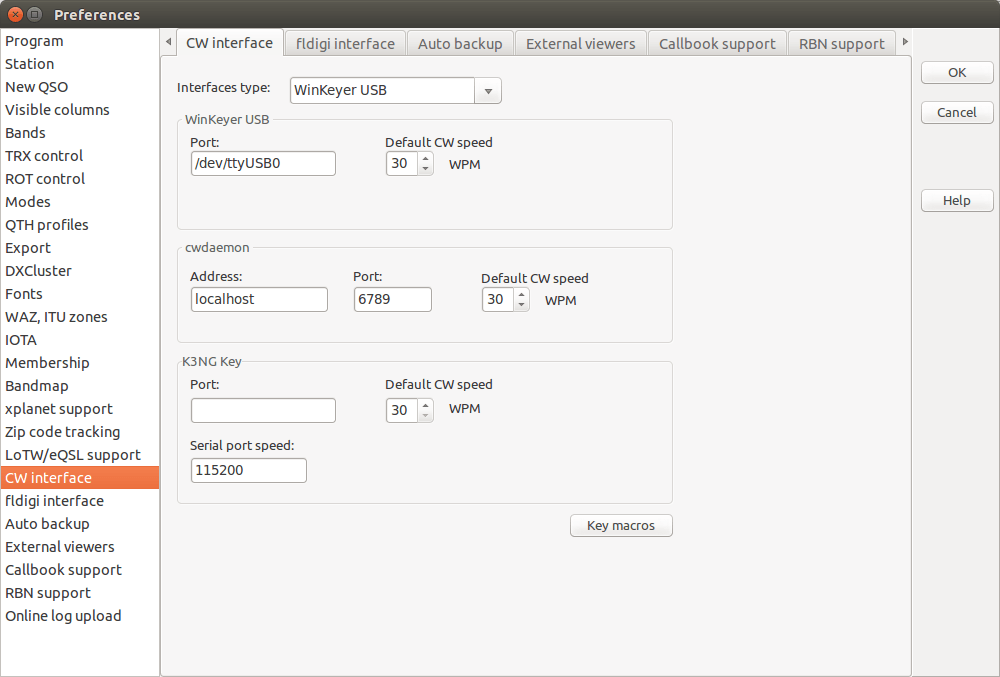
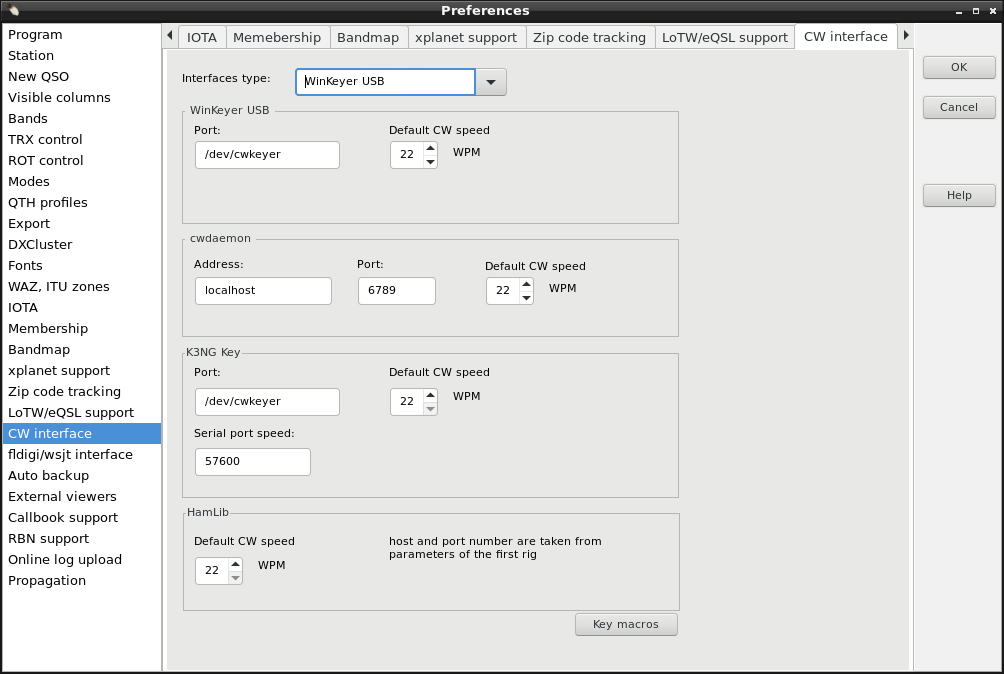
Merged from master. Some help files fixed. Version number now 2.2.0(100)

diff --git a/help/cwh.html b/help/cwh.html
@@ -1,0 +1,63 @@
+<!DOCTYPE HTML PUBLIC "-//W3C//DTD HTML 4.01 Transitional//EN" "http://www.w3.org/TR/html4/loose.dtd">
+<html lang="en-us">
+<head>
+    <title>CQRLOG - cwdaemon setup</title></head>
+<body>
+<table border="0" cellpadding="5" cellspacing="2" width="100%">
+    <tbody>
+    <tr>
+        <td valign="top"><img src="img/exc.png"></td>
+        <td align="justify" bgcolor="ffffcc" valign="top"><strong>
+            <font color="red">WARNING!</font></strong>
+            Backup your data often! BACKUP your log directory at the end of EVERY session!
+            All that you need to backup and store in a safe place is the log database directory
+            located in the ~/.config/cqrlog/database folder, or you can enable the autobackup function
+            in Preferences. This autobackup function creates an ADIF file with a backup of your log.
+        </td>
+    </tr>
+    </tbody>
+</table>
+<table style="text-align: left; width: 100%;" border="0" cellpadding="2" cellspacing="2">
+    <tbody>
+    <tr>
+        <td align="left" width="33%">&nbsp;&lt;<a href="h1.html"> Prev</a></td>
+        <td align="center" width="33%">[<a href="index.html#aa">Menu</a>]</td>
+        <td align="right" width="33%"><a href="h1.html#ch2">Next </a>&gt;</td>
+    </tr>
+    </tbody>
+</table>
+<br>
+<div style="text-align: left;"><strong>CQRLOG for LINUX by OK7AN &amp; OK1RR</strong></div>
+<p align="center"><img src="img/line.png"></p>
+<strong>HamLib CW setup</strong><br><br>
+
+CW through HamLib does not need any special settings.
+</br>It uses same TCP port as your <strong>Radio one</strong>'s CAT control.
+Only setting is default keying speed.
+</p><p>If you are not sure can your rig send CW via rigctld (HamLib) you may check it by opening console
+while cqrlog is running and typing command:</br>
+<strong>telnet localhost 4532</strong>
+</br>
+After getting connected type command:
+<strong>\dump_caps</strong>
+</br>
+You get several lines, one with text: <strong><pre>Can send Morse:	Y</pre></strong>
+</br>As you may guess Y means rig can send CW, N means it can not.
+</p><p>
+Commands used for HamLib CW are:
+<li>L KEYSPD NN  (where NN is the keying speed in wpm)</li>
+<li>b TEXT       (TEXT is the text to be sent as CW)</li>
+</p>
+<p align="center"><img src="img/line.png"></p>
+<table style="text-align: left; width: 100%;" border="0" cellpadding="2" cellspacing="2">
+    <tbody>
+    <tr>
+        <td align="left" width="33%">&nbsp;&lt;<a href="h1.html"> Prev</a></td>
+        <td align="center" width="33%">[<a href="index.html#aa">Menu</a>]</td>
+        <td align="right" width="33%"><a href="h1.html#ch2">Next </a>&gt;</td>
+    </tr>
+    </tbody>
+</table>
+<br>
+</body>
+</html>

diff --git a/src/changelog.html b/src/changelog.html
@@ -1,6 +1,26 @@
-<strong>New user?</strong> Please look to <strong>Help -> Keys and shortcuts</strong> to find out how to operate CQRLOG from keyboard.
+<strong>New user?</strong> Please look at <strong>Help -> Keys and shortcuts</strong> to find out how to operate CQRLOG from keyboard.
 <hr>
 <br>
+<strong>CQRLOG 2.2.0 (2017-12-30)</strong><br>
+<ul style="list-style: square;text-align:left; color: blue;">
+  <li>wsjt remote mode improvements (Saku, OH1KH)</li>
+  <li>CQ-monitor now remembers showing state (Saku, OH1KH)</li>
+  <li>"My Alert" is now compared oppsite way: This should fit also compound callsign XX/YOURCALL or YOURCALL/XX (Saku, OH1KH)</li>
+  <li>CQ-monitor:  Country names (cut to length 15) are now displayed instead of callsign prefixes. (Saku, OH1KH)</li>
+  <li>"Show only active band" checkbox addec to Band map filter for quick access. (Saku, OH1KH)</li>
+  <li>"Re/Set" button added to Export "Choose fields to export" dialog for set/reset all check boxes in one go. (Saku, OH1KH)</li>
+  <li>a lot of CQ monitor improvements (Saku, OH1KH)</li>
+  <li>remote wsjt: Short cut key Ctrl+J (Saku, OH1KH)</li>
+  <li>help files updated (Saku, OH1KH)</li>
+  <li>Voice keyer works now also with FM and AM modes and also from CWkeys windows. (Saku, OH1KH)</li>
+  <li>QSO in QSO list window can be sorted in ascending date/time order (oldes QSO first). (Jörg, DL8DTL)</li>
+  <li>CQRLOG should work correcly on HiDPI monitors</li>
+</ul>
+<ul style="list-style: square;text-align:left; color: red;">
+  <li>630M definition was missing in some functions (Saku, OH1KH)</li>
+  <li>ADIF upload didn't work when name or QTH were too long</li>
+</ul>
+<br><br>
 <strong>CQRLOG 2.1.0 (2017-08-06)</strong><br>
 <ul style="list-style: square;text-align:left; color: blue;">
   <li>wsjt remote mode improvements (Saku, OH1KH)</li>

diff --git a/help/h1.html b/help/h1.html
@@ -28,7 +28,7 @@
     </tbody>
 </table>
 <br>
-<div style="text-align: left;"><strong>CQRLOG for LINUX by OK2CQR &amp; OK1RR</strong></div>
+<div style="text-align: left;"><strong>CQRLOG for LINUX by OK7AN &amp; OK1RR</strong></div>
 <p align=center><img src=img/line.png></p>
 <h2><strong>Preferences</strong></h2>
 <div align=justify>The first step you need is to set up your log preferences. From the
@@ -470,8 +470,8 @@ There are no known dependencies issues.<br><br>
     info messages.<br><br>
     <a name=ch1><h2><strong>CW interface</strong></h2></a>
     <img src="img/h95.png"><br><br>
-    Choose your preferred CW interface. There are 4 options: None, WinKeyer USB,
-    cwdaemon and K3NG keyer. We strongly recommend Winkey USB by Steve Elliot, K1EL,
+    Choose your preferred CW interface. There are 5 options: None, WinKeyer USB,
+    cwdaemon, K3NG keyer and HamLib. We strongly recommend Winkey USB by Steve Elliot, K1EL,
     which provides 'all in one' keying, including one of most advanced paddle keyers available.
     cwdaemon should be seen as a backup option with many limitations, which may need
     a custom linux kernel to avoid sloppy CW at speeds above 25 WPM. If cwdaemon is used,
@@ -482,6 +482,7 @@ There are no known dependencies issues.<br><br>
         <li><a href=wkusb.html><strong>Winkey USB</strong></a></li>
         <li><a href="http://blog.radioartisan.com/arduino-cw-keyer/" target="_blank">
             <strong>K3NG</strong></a></li>
+        <li><a href=cwh.html><strong>HamLib</strong></a>
     </ul>
     For further steps (CW messages edit, keyboard keyer operation) - click
     <a href=h26.html><strong>here</strong></a>.

diff --git a/help/h28.html b/help/h28.html
@@ -1,7 +1,7 @@
 <!DOCTYPE HTML PUBLIC "-//W3C//DTD HTML 4.01 Transitional//EN">
 <html>
 <head>
-    <title>CQRLOG - Supported Radio Types</title>
+    <title>CQRLOG - Voice messages</title>
 </head>
 <body>
 <table border="0" cellpadding="5" cellspacing="2" width="100%">
@@ -29,7 +29,7 @@
     </tbody>
 </table>
 <br>
-<div style="text-align: left;"><strong>CQRLOG for LINUX by OK2CQR &amp; OK1RR</strong></div>
+<div style="text-align: left;"><strong>CQRLOG for LINUX by OK7AN &amp; OK1RR</strong></div>
 <p align=center><img src=img/line.png></p>
 
 <h2><strong>Voice messages</strong></h2><p>

diff --git a/help/remi.html b/help/remi.html
@@ -1,7 +1,7 @@
 <!DOCTYPE HTML PUBLIC "-//W3C//DTD HTML 4.01 Transitional//EN">
 <html>
 <head>
-    <title>CQRLOG - Supported Radio Types</title>
+    <title>CQRLOG - Reminder</title>
 </head>
 <body>
 <table border="0" cellpadding="5" cellspacing="2" width="100%">
@@ -28,7 +28,7 @@
     </tbody>
 </table>
 <br>
-<div style="text-align: left;"><strong>CQRLOG for LINUX by OK2CQR &amp; OK1RR</strong></div>
+<div style="text-align: left;"><strong>CQRLOG for LINUX by OK7AN &amp; OK1RR</strong></div>
 <p align=center><img src=img/line.png></p>
 
 <h3 ><a name="m3"></a>Reminder</h3>

diff --git a/help/wsjt.html b/help/wsjt.html
@@ -1,7 +1,7 @@
 <!DOCTYPE HTML PUBLIC "-//W3C//DTD HTML 4.01 Transitional//EN">
 <html>
 <head>
-    <title>CQRLOG - Supported Radio Types</title>
+    <title>CQRLOG - WSJT-X interface</title>
 </head>
 <body>
 <table border="0" cellpadding="5" cellspacing="2" width="100%">
@@ -28,7 +28,7 @@
     </tbody>
 </table>
 <br>
-<div style="text-align: left;"><strong>CQRLOG for LINUX by OK2CQR &amp; OK1RR</strong></div>
+<div style="text-align: left;"><strong>CQRLOG for LINUX by OK7AN &amp; OK1RR</strong></div>
 <p align=center><img src=img/line.png></p>
 
 <h2 >Wsjt remote mode</h2>

diff --git a/help/contest.html b/help/contest.html
@@ -1,7 +1,7 @@
 <!DOCTYPE HTML PUBLIC "-//W3C//DTD HTML 4.01 Transitional//EN">
 <html>
 <head>
-    <title>CQRLOG - Supported Radio Types</title>
+    <title>CQRLOG - Contest</title>
 </head>
 <body>
 <table border="0" cellpadding="5" cellspacing="2" width="100%">
@@ -28,7 +28,7 @@
     </tbody>
 </table>
 <br>
-<div style="text-align: left;"><strong>CQRLOG for LINUX by OK2CQR &amp; OK1RR</strong></div>
+<div style="text-align: left;"><strong>CQRLOG for LINUX by OK7AN &amp; OK1RR</strong></div>
 <p align=center><img src=img/line.png></p>
 
 <p align="center">

diff --git a/help/base.html b/help/base.html
@@ -1,7 +1,7 @@
 <!DOCTYPE HTML PUBLIC "-//W3C//DTD HTML 4.01 Transitional//EN">
 <html>
 <head>
-    <title>CQRLOG - Supported Radio Types</title>
+    <title>CQRLOG </title>
 </head>
 <body>
 <table border="0" cellpadding="5" cellspacing="2" width="100%">
@@ -28,7 +28,7 @@
     </tbody>
 </table>
 <br>
-<div style="text-align: left;"><strong>CQRLOG for LINUX by OK2CQR &amp; OK1RR</strong></div>
+<div style="text-align: left;"><strong>CQRLOG for LINUX by OK7AN &amp; OK1RR</strong></div>
 <p align=center><img src=img/line.png></p>
 
 

diff --git a/help/fldxml.html b/help/fldxml.html
@@ -1,7 +1,7 @@
 <!DOCTYPE HTML PUBLIC "-//W3C//DTD HTML 4.01 Transitional//EN">
 <html>
 <head>
-    <title>CQRLOG - Supported Radio Types</title>
+    <title>CQRLOG - fldigi XmlRpc</title>
 </head>
 <body>
 <script>
@@ -37,7 +37,7 @@ function goBack() {
     </tbody>
 </table>
 <br>
-<div style="text-align: left;"><strong>CQRLOG for LINUX by OK2CQR &amp; OK1RR</strong></div>
+<div style="text-align: left;"><strong>CQRLOG for LINUX by OK7AN &amp; OK1RR</strong></div>
 <p align=center><img src=img/line.png></p>
 
 

diff --git a/help/h7.html b/help/h7.html
@@ -27,7 +27,7 @@
     </tbody>
 </table>
 <br>
-<div align=left><strong>CQRLOG for LINUX by OK2CQR &amp; OK1RR</strong></div>
+<div align=left><strong>CQRLOG for LINUX by OK7AN &amp; OK1RR</strong></div>
 <p align="center"><img src="img/line.png"></p><a name="bh4"></a><br><b><h2>LoTW support</h2></b>
 <p><strong>Preparation</strong></p>
 <div align=justify>We assume that you have a working LoTW Account. If you are new to LoTW,

diff --git a/help/h23.html b/help/h23.html
@@ -28,7 +28,7 @@
     </tbody>
 </table>
 <br>
-<div style="text-align: left;"><strong>CQRLOG for LINUX by OK2CQR &amp; OK1RR</strong></div>
+<div style="text-align: left;"><strong>CQRLOG for LINUX by OK7AN &amp; OK1RR</strong></div>
 <p align=center><img src=img/line.png></p>
 <a name="ah21"><h2><strong>Filtering</strong></h2></a>
 CQRLOG offers a wide variety of filtering options allowing you to select and export records

diff --git a/help/h22.html b/help/h22.html
@@ -28,7 +28,7 @@
     </tbody>
 </table>
 <br>
-<div style="text-align: left;"><strong>CQRLOG for LINUX by OK2CQR &amp; OK1RR</strong></div>
+<div style="text-align: left;"><strong>CQRLOG for LINUX by OK7AN &amp; OK1RR</strong></div>
 <p align=center><img src=img/line.png></p>
 <a name="ah21"><h2><strong>QSL records</strong></h2></a>
 All QSL operations must be done from the QSO list (Ctrl-O from the logging screen).
